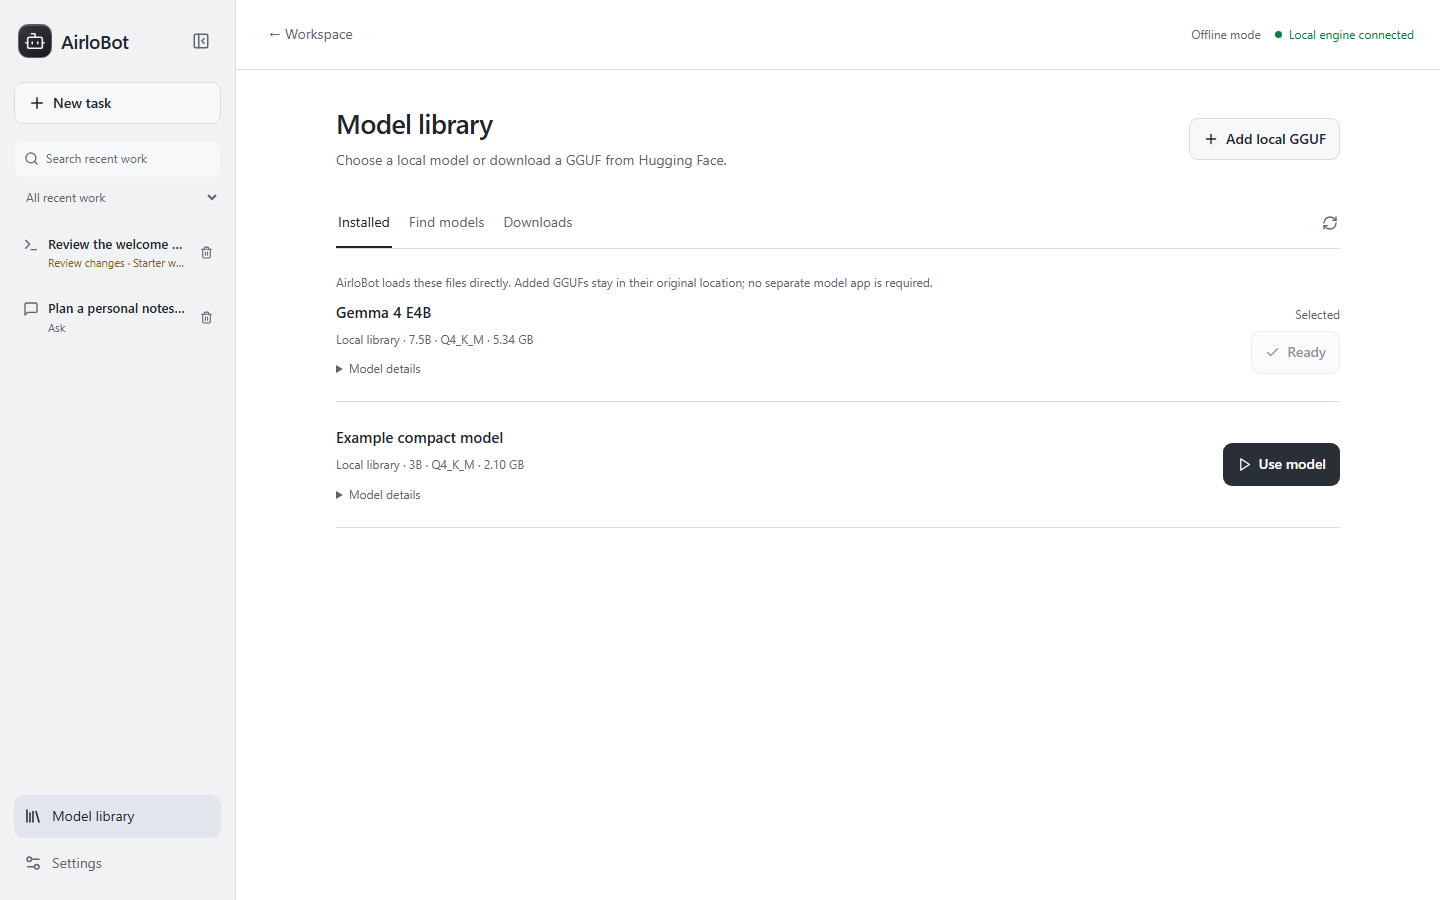
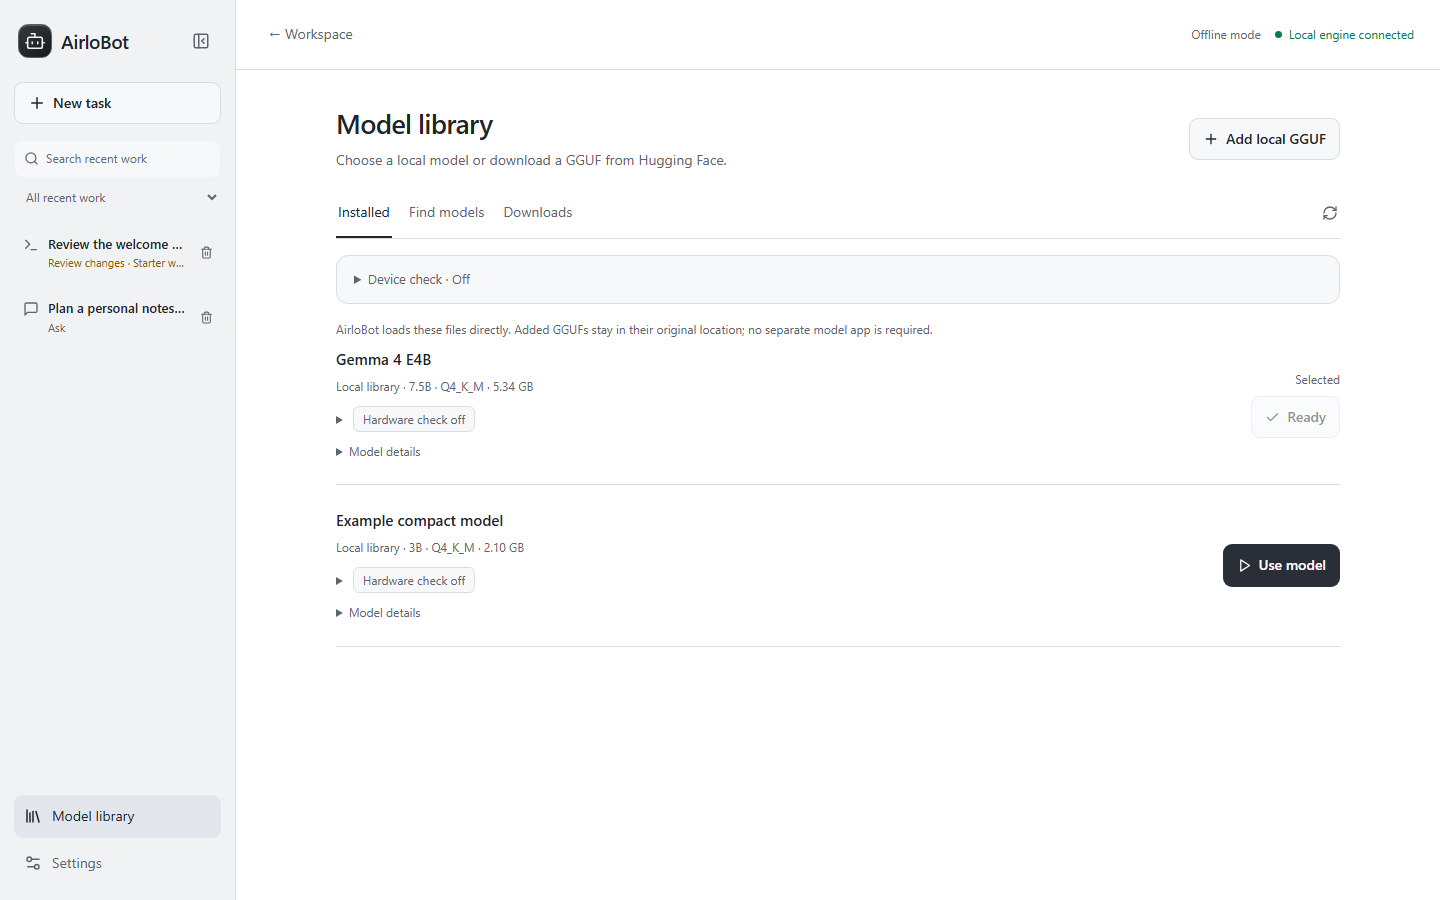
docs: update model library guide and synthetic screenshots

diff --git a/docs/USER_GUIDE.md b/docs/USER_GUIDE.md
@@ -1,6 +1,6 @@
 # AirloBot user guide
 
-AirloBot 0.6 is a standalone Windows desktop preview. See the [README](../README.md#get-started) for installation.
+AirloBot 0.7 is a standalone Windows desktop preview. See the [README](../README.md#get-started) for installation.
 
 ## Local engine and models
 
@@ -17,6 +17,22 @@ The existing Gemma 4 E4B model is a compatibility target. Other models require s
 **Settings → Privacy and local engine** offers context sizes from 4,096 to 65,536 tokens and Auto GPU / CPU acceleration. Default: 16,384 tokens. Project tools require at least 8,192. Higher values use more memory; the model's maximum also applies. Settings take effect at the next load/send. Unload releases memory; normal app shutdown stops the engine.
 
 Engine reference: [llama.cpp server](https://github.com/ggml-org/llama.cpp/blob/b11960/tools/server/README.md). Build provenance and the archive checksum are pinned in `scripts/runtime-lock.json`.
+
+## Hardware recommendations and download choices
+
+Under **Settings → Device & model fit**, enable **Use my hardware for model recommendations**, then choose **Scan now**. The same controls are available inside the library's **Device check** panel. The preference is off by default. Enabling it does not scan automatically, including after restarting.
+
+Scanning reads the CPU description and logical processor count, available/total RAM, free storage at the library location, and graphics devices/memory reported by the bundled Vulkan engine. It does not examine personal files, collect device serial numbers, or load a model. No administrator access is required. If the engine or GPU information is unavailable, the app reports that limitation and manual model selection remains available.
+
+Hardware snapshots exist only in app memory. They are not written to state files, logs, conversations, or Git and are never included in network requests. **Forget results**, disabling the preference, or closing AirloBot clears them. The opt-in preference alone is saved locally. Refresh before comparing models: estimates expire after 15 minutes, and other apps or a loaded model affect available memory.
+
+**Find models** offers a balanced starting variant, a smaller download, and a higher-precision option where available. These are filename/quantization-based starting points, not quality rankings. Expand **All versions** for the complete file list. Selecting a file reads only a bounded GGUF metadata header from the same pinned repository revision. Browsing and metadata requests require Offline mode to be off; hardware scanning itself works offline.
+
+Fit labels use file size, context-cache metadata, configured context/acceleration, working-buffer allowance, and memory headroom. They distinguish likely fit, limited headroom, possible CPU use, insufficient disk space, unsupported file formats, and unknown estimates. Shared GPU memory is never added to RAM, and multi-GPU capacity is not summed. Warnings allow manual choice; the download performs its own live free-space check.
+
+The first estimator covers conventional attention caches in the llama, qwen2/qwen3, gemma/gemma2/gemma3, phi3, and mistral metadata families. Other architectures, including Gemma 4, show **Memory fit unknown** and remain usable if supported by the engine. Fit is not a benchmark or proof of tool-calling quality. For already-registered models without detailed metadata, use **Model details → Check model requirements**. Installed files are read locally without copying or changing their weights.
+
+Remote metadata reads are range-only, capped at 16 MiB of header per attempt (under 22 MiB across retries), with time and concurrency limits. Servers that ignore Range, malformed headers, or unsupported layouts produce an unknown estimate. Preview failures do not trigger a full model download. Actual downloads still pin a revision and verify file size and SHA-256 before registration.
 
 ## Project conversations
 

diff --git a/README.md b/README.md
@@ -7,7 +7,7 @@
 <p align="center"><strong>An agent workspace powered by your local models.</strong></p>
 
 <p align="center">
-  Windows desktop · Local inference · Version 0.6 preview
+  Windows desktop · Local inference · Version 0.7 preview
 </p>
 
 <p align="center">
@@ -33,6 +33,7 @@ AirloBot brings local chat, project tools, and helper agents into one desktop wo
 - **Delegate locally.** The main agent can create researcher or reviewer helpers using the same installed model, with separate contexts and read-only tools.
 - **Make reviewed changes.** Create folders and text documents, edit a precise passage, and apply, reject, or undo changes with protection against overwriting newer work.
 - **Build a model library.** Add a local GGUF or browse public Hugging Face repositories, with download progress, pause/resume, and SHA-256 verification.
+- **Check memory fit privately.** Opt in to a local hardware snapshot, compare a selected model at your context setting, and choose from a few clear download variants. Hardware details stay in memory on your device.
 - **Keep your place.** Saved drafts, searchable recent work, and confirmed task/chat deletion keep the workspace manageable.
 - **Choose your finish.** Light, Dark, and macOS-inspired Liquid Glass include motion and transparency controls.
 
@@ -93,6 +94,12 @@ Task results stay in the main workspace. Open **Review changes** to see the chan
 
 Add an existing GGUF or find a public model on Hugging Face. AirloBot loads files directly and verifies downloads before adding them to the library. The library currently supports public, ungated, single-file GGUF models.
 
+Enable **Settings → Device & model fit → Use my hardware for model recommendations**, then choose **Scan now**. The library shows a few starting variants and keeps **All versions** available. Selecting a variant reads a bounded metadata preview before download. Fit labels are memory estimates, not speed or model-quality guarantees; incomplete metadata and unmodeled architectures show **Unknown**.
+
+Snapshots expire for comparisons after 15 minutes, are never saved to disk or sent to Hugging Face, and clear on **Forget results**, opt-out, or app shutdown. Existing GGUFs retain their locations. Older library entries offer **Model details → Check model requirements** to read their metadata locally.
+
+![Model download choices with a local memory-fit estimate, using synthetic model and hardware data](docs/media/library-downloads.png)
+
 ![Light theme showing the local model library and model selection controls](docs/media/library-light.png)
 
 <details>
@@ -116,7 +123,7 @@ The bundled engine has remote access, built-in agent tools, request logging, and
 
 ## Current scope
 
-AirloBot 0.6 supports local text chat, persistent project conversations, folder creation, and reviewed UTF-8 text/Markdown/source edits up to 1 MiB. Helpers run sequentially, with up to two helpers per turn. New turns default to **100 shared model turns and 60 minutes**, both configurable. Word/PDF editing, terminal commands, project test execution, and autonomous writes are not available.
+AirloBot 0.7 supports local text chat, persistent project conversations, folder creation, and reviewed UTF-8 text/Markdown/source edits up to 1 MiB. Helpers run sequentially, with up to two helpers per turn. New turns default to **100 shared model turns and 60 minutes**, both configurable. Word/PDF editing, terminal commands, project test execution, and autonomous writes are not available.
 
 The app is tested on Windows. CI checks the service and production build on Windows and Linux; this does not imply a supported Linux desktop release. See the [user guide](docs/USER_GUIDE.md) for model requirements, exact limits, and troubleshooting.
 

diff --git a/docs/media/README.md b/docs/media/README.md
@@ -1,6 +1,6 @@
 # Product image provenance
 
-These four PNGs show the unmodified AirloBot 0.6 production renderer with fixed synthetic content. Conversation text, task results, project paths, model inventory, and connection status are demo fixtures. They do not claim a live model interaction or expose a user's saved state.
+These five PNGs show the unmodified AirloBot 0.7 production renderer with fixed synthetic content. Conversation text, task results, project paths, hardware descriptions, model inventory, and connection status are demo fixtures. They do not claim a live model interaction or expose a user's saved state.
 
 | Image | View |
 | --- | --- |
@@ -8,14 +8,17 @@ These four PNGs show the unmodified AirloBot 0.6 production renderer with fixed 
 | `review-dark.png` | Sample file-change review in Dark. |
 | `library-light.png` | Example local-model inventory in Light. |
 | `appearance-glass.png` | Appearance options and accessibility controls. |
+| `library-downloads.png` | Download chooser and estimated memory fit using synthetic hardware. |
 
 Recreate from the repository root:
 
 ```powershell
 npm run build
 npx --no-install electron scripts/capture-readme.cjs
+npx --no-install electron scripts/library-ui-test.cjs
+Copy-Item test-results/library-ui/chooser-dark.png docs/media/library-downloads.png
 ```
 
 The capture process uses its own ignored test profile, reads only the built app assets, and blocks every external network request. It does not read `data`, start an inference engine, or perform project file changes. No screenshot is taken from the user's running desktop app.
 
-Before publishing regenerated images, inspect all four for layout and unintended content. Do not replace these images with real chats, local file paths, credentials, or personal project screenshots. Other private captures remain ignored by Git.
+Before publishing regenerated images, inspect all five for layout and unintended content. Do not replace these images with real chats, hardware profiles, local file paths, credentials, or personal project screenshots. Other private captures remain ignored by Git.
